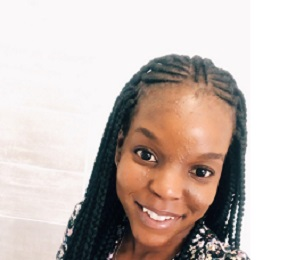
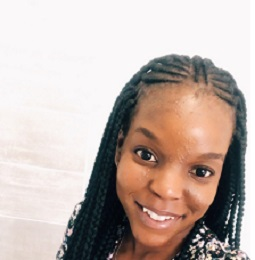
Made changes to the style and layout as it was not displaying properly. Added a few more lines of information and edited the picture

diff --git a/index.html b/index.html
@@ -4,6 +4,9 @@
 
 <head>
     <title> About Fadziso </title>
+    <script type="module" src="https://cdn.jsdelivr.net/npm/@ionic/core/dist/ionic/ionic.esm.js"></script>
+    <script nomodule src="https://cdn.jsdelivr.net/npm/@ionic/core/dist/ionic/ionic.js"></script>
+    <link rel="stylesheet" href="https://cdn.jsdelivr.net/npm/@ionic/core/css/ionic.bundle.css" />
     <link rel="stylesheet" href="https://stackpath.bootstrapcdn.com/bootstrap/4.1.3/css/bootstrap.min.css" integrity="sha384-MCw98/SFnGE8fJT3GXwEOngsV7Zt27NXFoaoApmYm81iuXoPkFOJwJ8ERdknLPMO" crossorigin="anonymous">
     <link href="index.css" rel="stylesheet" type="text/css">
 </head>
@@ -14,30 +17,60 @@
             <div class="card">
                 <img id="image" src="FadzisoGabrielle.JPG" alt="image1">
                 <div class="card-body">
-                    <p class="card-text">Junior Web Developer <br> Student at HyperionDev</p>
-                    <p class="card-text">Contact Info: <br> fadzisondoro@icloud.com <br> fadzisondoro.gn@gmail.com <br> LinkedIn: http://linkedin.com/in/fadziso-ndoro-91b354160 <br> +27 72 980 2159
-                    </p>
+                    <ul class="list-unstyled">
+                        <li>
+                            <p class="card-text">Junior Web Developer</p>
+                        </li>
+                        <li>
+                            <p class="card-text">Student at HyperionDev</p>
+                        </li>
+                    </ul>
                 </div>
             </div>
-        </div><br><br><br><br><br><br><br><br><br><br><br><br><br><br><br><br><br>
-        <div class="col">
-            <h2 style="font-family: Times New Roman; text-align: center; font-style: italic;">Education History</h2><br>
-            <p style="text-align: center;"> HyperionDev | Feb 2020 - present <br> Full-Stack Web Development Bootcamp</p>
-            <p style="text-align: center;">Pearson Institute Of Higher Education | 2018 - 2019 <br> Bachelor Of Science in Computer Science</p>
-            <p style="text-align: center;">St Johns High School Emerald Hill | 2015 - 2016 <br> Cambridge Advanced Subsidiary & Advanced Level</p>
-            <p style="text-align: center;">Marondera High School | 2011 - 2014 <br> ZIMSEC Ordinary Level </p>
-        </div>
-        <div class="w-100"></div><br><br><br><br><br>
+        </div><br><br>
         <div class="col">
             <h2 style="font-family: Times New Roman; text-align: center; font-style: italic;"> Personal Profile </h2>
-            <p style="text-align: center;">I am a 21 year old young woman, born and raised in Harare, Zimbabwe. I have a passion for design and hope to expand my creative side through web development. </p>
+            <p style="text-align: center;">I am a 21 year old young woman with a passion for design hence being extremely motivated to expand my creative side and constantly develop my skills and grow professionally through web development. </p>
+            <ul class="list-unstyled text-center">
+                <li>
+                    <ion-icon name="mail-outline"></ion-icon><a href="mailto:fadzisondoro@icloud.com">  iCloud</a>
+                </li>
+                <li>
+                    <ion-icon name="mail-outline"></ion-icon><a href="mailto:fadzisondoro.gn@gmail.com">  Gmail</a>
+                </li>
+                <li>
+                    <ion-icon name="logo-linkedin"></ion-icon><a href="http://linkedin.com/in/fadziso-ndoro-91b354160">  LinkedIn</a>
+                </li>
+                <li>
+                    <ion-icon name="logo-whatsapp"></ion-icon><a href="https://api.whatsapp.com/send?phone=27729802159">  WhatsApp</a>
+                </li>
+                <li>
+                    <p class="card-text">
+                        <ion-icon name="call-outline"></ion-icon> +27 (0) 72 980 2159 </p>
+                </li>
+            </ul>
         </div>
-        <div class="col">
-            <h2 style="font-family: Times New Roman; text-align: center; font-style: italic;"> Work Experience </h2>
-            <p style="text-align: center;">When I completed high school, I took a gap year and worked as a part-time student assistant at Ariel Primary School in Harare. My duties included preparation of kids work, assisant supervisor at swimming & tennis. I have worked on an online
-                store for my Capstone Project in my first level at HyperionDev: </p>
-        </div><br><br><br><br>
-    </div>
+    </div><br><br><br>
+    <hr>
+
+    <h2>Education History</h2><br>
+    <p class="para"> HyperionDev | Feb 2020 - present <br> Full-Stack Web Development Bootcamp</p>
+    <p class="para">Pearson Institute Of Higher Education | 2018 - 2019 <br> Bachelor Of Science in Computer Science</p>
+    <p class="para">St Johns High School Emerald Hill | 2015 - 2016 <br> Cambridge Advanced Subsidiary & Advanced Level</p>
+    <p class="para">Marondera High School | 2011 - 2014 <br> ZIMSEC Ordinary Level </p><br>
+    <h2> Work Experience </h2>
+    <p class="para">Part-time student assistant at Ariel Primary School in Harare | 2017 - 2017 </p>
+    <p class="para">My duties included preparation of kids work, assisant supervisor at swimming & tennis. </p>
+    <h2>Skills</h2>
+    <ul class="text-center">
+        <li>The ability to follow instructions and deliver quality results</li>
+        <li>Exceptional communication skills</li>
+    </ul>
+    <h2>Projects</h2>
+    <p class="para">I have worked on an online store for my Capstone Project in my first level at HyperionDev: </p>
+    
+
+
 </body>
 
 </html>

diff --git a/index.css b/index.css
@@ -4,7 +4,25 @@ body {
     padding: 70px;
 }
 
+a {
+    color: #000000;
+}
+
 nav {
+    text-align: center;
+}
+
+ion-icon {
+    vertical-align: middle;
+}
+
+h2 {
+    font-family: Times New Roman;
+    text-align: center;
+    font-style: italic;
+}
+
+.para {
     text-align: center;
 }
 
@@ -20,6 +38,15 @@ nav {
 
 header {
     background-color: darksalmon;
+}
+
+.img-overide {
+    padding: 25px;
+}
+
+.container {
+    float: right;
+    margin-top: 2px;
 }
 
 
